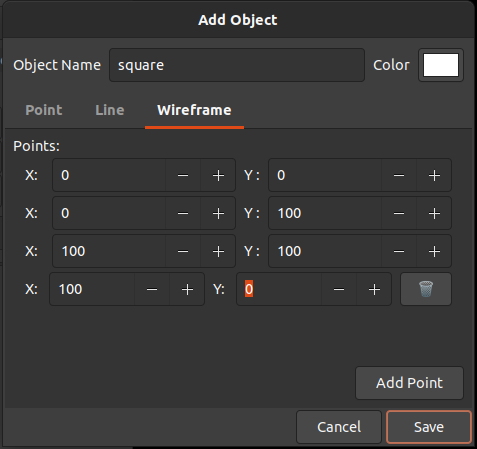
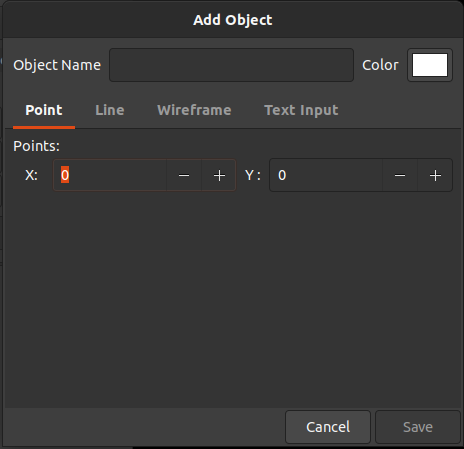
Add raw text input

diff --git a/py_igs/application_window.py b/py_igs/application_window.py
@@ -5,7 +5,7 @@ from sys import float_info
 from enum import IntEnum, auto, unique
 from gi.repository import Gtk, Gdk
 from cairo import Context
-from helpers import extract_points_as_vec2_from_box, gdk_rgba_as_tuple
+from helpers import extract_points_as_vec2_from_box, gdk_rgba_as_tuple, parse_text_into_points_2d
 from objects.line_2d import Line2D
 from objects.point_2d import Point2D
 from objects.wireframe_2d import Wireframe2D
@@ -42,6 +42,7 @@ class ApplicationWindow(Gtk.ApplicationWindow):
     dialog_object_add_tab_point_coords = Gtk.Template.Child("window-object-add-point-coords")
     dialog_object_add_tab_line_coords = Gtk.Template.Child("window-object-add-line-coords")
     dialog_object_add_tab_wireframe_coords = Gtk.Template.Child("window-object-add-wireframe-coords")
+    dialog_object_add_tab_text_coords = Gtk.Template.Child("window-object-add-text-value")
     dialog_object_add_btn_save = Gtk.Template.Child("window-object-add-btn-save")
 
     dialog_object_edit = Gtk.Template.Child("window-object-edit")
@@ -365,7 +366,7 @@ class ApplicationWindow(Gtk.ApplicationWindow):
         # Save Selected Page
         self.add_object_current_type_page = page
         # Save Selected Type Too
-        self.add_object_current_type = DialogObjectType(page_num)
+        self.add_object_current_type = DialogObjectType(page_num) if (page_num < 3) else None
 
     @Gtk.Template.Callback("on-object-add-color-set")
     def on_object_add_color_set(self, button):
@@ -409,6 +410,25 @@ class ApplicationWindow(Gtk.ApplicationWindow):
                 points = extract_points_as_vec2_from_box(self.dialog_object_add_tab_wireframe_coords)
                 # Build Object
                 object_to_build = Wireframe2D(*points)
+            elif self.add_object_current_type == None:
+                # Get Text
+                points_text = self.dialog_object_add_tab_text_coords.get_text()
+                # Get Points
+                points = parse_text_into_points_2d(points_text)
+                # Check Object to Build
+                points_len = len(points)
+                if points_len == 1:
+                    # Its a Point
+                    object_to_build = Point2D(*points)
+                elif points_len == 2:
+                    # Its a Line
+                    object_to_build = Line2D(*points)
+                elif points_len >= 3:
+                    # Its a Wireframe
+                    object_to_build = Wireframe2D(*points)
+                else:
+                    # Error
+                    return
             # Get Object Name
             object_name = self.dialog_object_add_object_name.get_text()
             # Get Object Color

diff --git a/py_igs/primitives/window.py b/py_igs/primitives/window.py
@@ -1,10 +1,12 @@
 from __future__ import annotations
 from typing import TYPE_CHECKING
+from math import atan
+
 import cairo
 from objects.line_2d import Line2D
 from objects.point_2d import Point2D
 from objects.wireframe_2d import Wireframe2D
-from primitives.matrix import Matrix, homo_coords2_matrix_scale, homo_coords2_matrix_translate
+from primitives.matrix import Matrix, homo_coords2_matrix_rotate, homo_coords2_matrix_scale, homo_coords2_matrix_translate
 from primitives.vec2 import Vector2
 if TYPE_CHECKING:
     from primitives.display_file import DisplayFile
@@ -62,6 +64,24 @@ class Window:
         self.x_max = x_max
         self.y_min = y_min
         self.y_max = y_max
+    # Define Normalized World Coordinates System
+    def as_normalized_coordinates_transform(self):
+        # Define World Center
+        world_center = self.get_center()
+        (center_x, center_y) = world_center.as_tuple()
+        # Translate World Center to Origin
+        translate_origin = homo_coords2_matrix_translate(-center_x, -center_y)
+        # Define Tetha
+        opposite = center_x - self.x_min
+        adjacent = self.y_max - center_y
+        vup_tetha = atan(opposite / adjacent)
+        # Rotate World
+        rotate_minus_theta = homo_coords2_matrix_rotate(-vup_tetha)
+        # Translate Back To Position
+        translate_back = homo_coords2_matrix_translate(center_x, center_y)
+        # Return as Transform
+        return translate_origin * rotate_minus_theta * translate_back
+
     # Define Rendering
     def draw(self, cairo: cairo.Context, display_file: DisplayFile, inherited_transform: Matrix) -> None:
         # Draw Display File Objects

diff --git a/py_igs/helpers.py b/py_igs/helpers.py
@@ -2,11 +2,11 @@ import gi
 from gi.repository import Gtk
 from primitives.vec2 import Vector2
 from typing import List, Tuple
+from ast import literal_eval
 # Setup Graphic
 gi.require_version("Gtk", "3.0")
 # Setup Helper Functions
 def extract_points_as_vec2_from_box(container_box) -> List[Vector2]:
-    []
     # Get Points
     points = [
         [
@@ -19,6 +19,14 @@ def extract_points_as_vec2_from_box(container_box) -> List[Vector2]:
     vec_points = [Vector2(point_x, point_y) for [point_x, point_y] in points]
     # Return Vectors
     return vec_points
+
+def parse_text_into_points_2d(text: str) -> List[Vector2]:
+    # Parse Tuple List
+    point_tuples = literal_eval(text)
+    # Transform to Vectors
+    points = [Vector2(x, y) for (x, y, *_) in point_tuples]
+    # Return List
+    return points
 
 def gdk_rgba_as_tuple(gdk_rgba) -> Tuple[float, float, float, float]:
     return (gdk_rgba.red, gdk_rgba.green, gdk_rgba.blue, gdk_rgba.alpha)

diff --git a/README.md b/README.md
@@ -56,6 +56,8 @@ To add an object, you need to click on the "Add" button located in the objects w
 
 In this dialog, insert the object name (unique in the scene) then insert the points coordinates of your object. You can select the type of the object by changing the active tab of the dialog. The drawing color can also be defined in this dialog.
 
+You can also input raw values at the "Text" tab. To use it, declare points using this format: `(x1, y1), (x2, y2), ...` (Obs: New lines are not allowed).
+
 After that, click on the save button. The object will appear on the world at the given coordinates.
 
 <div align="center">
